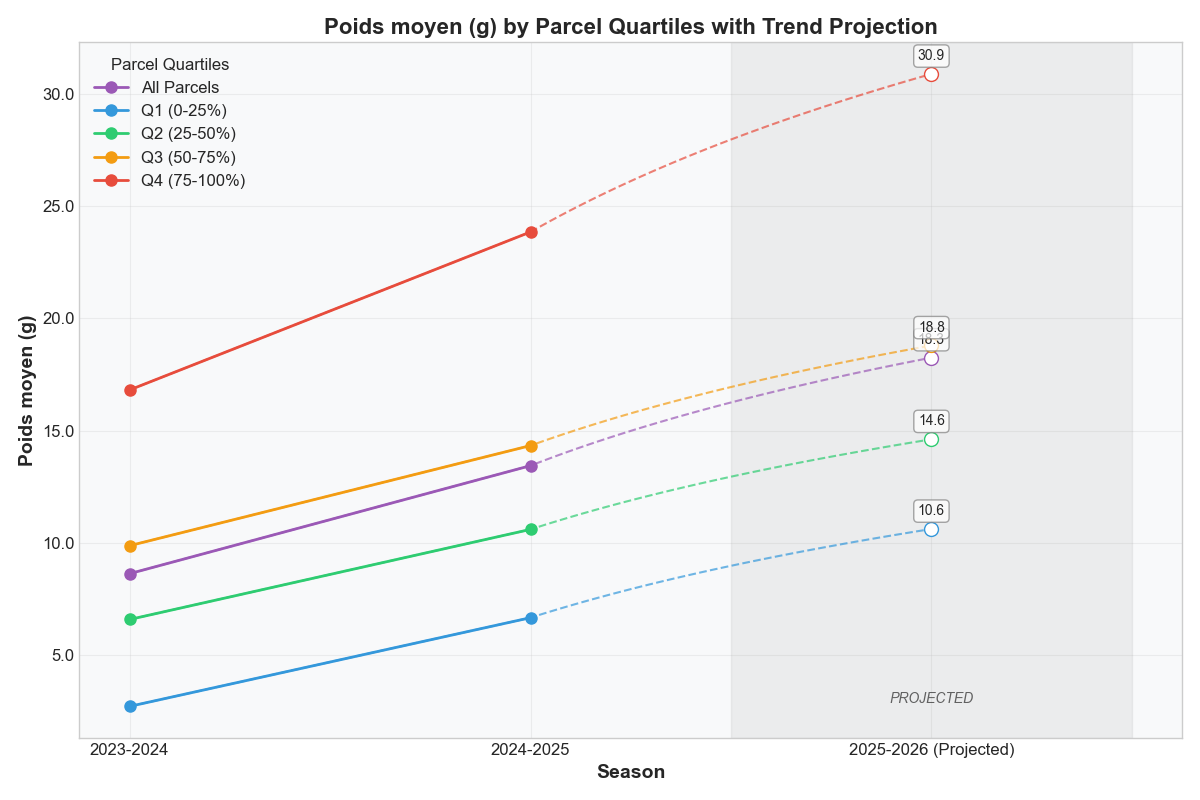
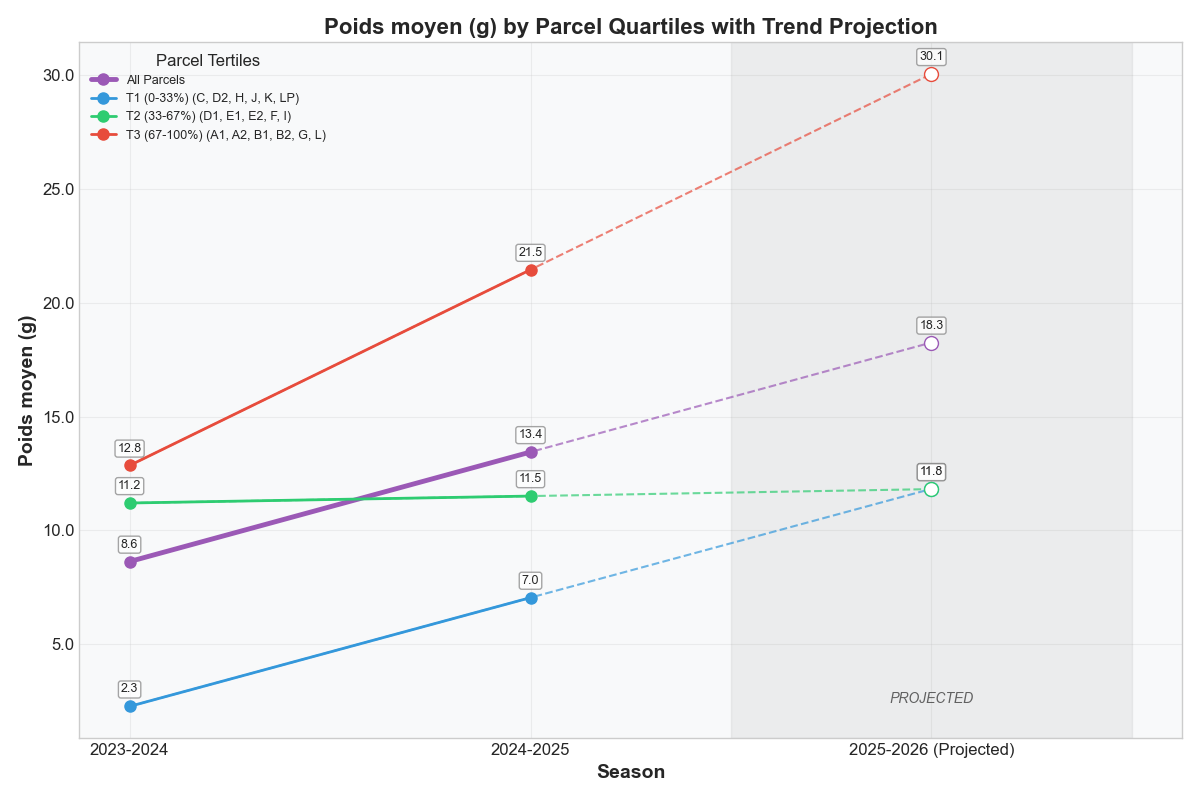
Update quartile analysis to tertile-based grouping with parcel labels

diff --git a/quartile_projection.py b/quartile_projection.py
@@ -20,13 +20,18 @@ plt.rcParams.update({
     'legend.fontsize': 12
 })
 
-# Custom color palette for quartiles
+# Custom color palette for tertiles (3 groups)
 quartile_colors = {
-    'Q1 (0-25%)': '#3498db',    # Blue
-    'Q2 (25-50%)': '#2ecc71',   # Green
-    'Q3 (50-75%)': '#f39c12',   # Orange
-    'Q4 (75-100%)': '#e74c3c',  # Red
+    'T1 (0-33%)': '#3498db',    # Blue
+    'T2 (33-67%)': '#2ecc71',   # Green
+    'T3 (67-100%)': '#e74c3c',  # Red
     'All Parcels': '#9b59b6'     # Purple
+}
+
+# Line styles
+line_styles = {
+    'All Parcels': {'linewidth': 3.5, 'linestyle': '-'},  # Thicker line for average
+    'other': {'linewidth': 2, 'linestyle': '-'}  # Regular line for tertiles
 }
 
 # Function to load and preprocess season data
@@ -74,52 +79,32 @@ kpis = [
 if not os.path.exists('quartile_projections'):
     os.makedirs('quartile_projections')
 
-# Linear function for trendline fitting (simpler for 2 data points)
+# Simple linear function for trendline fitting
 def linear_func(x, a, b):
     return a * x + b
 
-# Function to fit a linear trend and predict next value (more appropriate for 2 data points)
+# Function to fit a simple linear trend and predict next value
 def fit_trend_curve(x_data, y_data, predict_x):
     try:
-        # With only 2 data points, we can do a simple projection
+        # With only 2 data points, use a direct linear projection
         if len(x_data) == 2 and len(y_data) == 2:
-            # Calculate growth rate between the two points
-            growth_rate = (y_data[1] - y_data[0]) / (x_data[1] - x_data[0])
+            # Calculate slope and intercept directly
+            slope = (y_data[1] - y_data[0]) / (x_data[1] - x_data[0]) if x_data[1] != x_data[0] else 0
+            intercept = y_data[0] - slope * x_data[0]
             
-            # Use a modified logarithmic growth to avoid unrealistic projections
-            # for large growth rates - this assumes growth will slow down
-            if growth_rate > 0:
-                # Calculate projected value using diminishing growth
-                base_projection = y_data[1] + growth_rate
-                predicted_y = y_data[1] + growth_rate * (np.log((predict_x - x_data[1]) + 1) / np.log(2))
-            else:
-                # For negative growth, continue the trend linearly
-                predicted_y = y_data[1] + growth_rate
+            # Calculate projected value using simple linear extrapolation
+            predicted_y = slope * predict_x + intercept
             
             # Generate values for trendline plotting
             x_range = np.linspace(min(x_data), predict_x, 100)
-            
-            # Create a smooth transition curve between last known point and projection
-            y_range = []
-            for xi in x_range:
-                if xi <= x_data[1]:
-                    # Linear between known points
-                    ratio = (xi - x_data[0]) / (x_data[1] - x_data[0]) if x_data[1] != x_data[0] else 0
-                    yi = y_data[0] + ratio * (y_data[1] - y_data[0])
-                else:
-                    # Modified logarithmic growth after last known point
-                    if growth_rate > 0:
-                        yi = y_data[1] + growth_rate * (np.log((xi - x_data[1]) + 1) / np.log(2))
-                    else:
-                        yi = y_data[1] + growth_rate * (xi - x_data[1])
-                y_range.append(yi)
+            y_range = slope * x_range + intercept
             
             # Ensure predicted value is non-negative
             predicted_y = max(0, predicted_y)
             
-            return predicted_y, x_range, np.array(y_range), None
+            return predicted_y, x_range, y_range, (slope, intercept)
         else:
-            # Use linear function if we have more data points in the future
+            # Use curve_fit for more than 2 points (future-proofing)
             params, _ = optimize.curve_fit(linear_func, x_data, y_data)
             predicted_y = linear_func(predict_x, *params)
             x_range = np.linspace(min(x_data), predict_x, 100)
@@ -129,18 +114,22 @@ def fit_trend_curve(x_data, y_data, predict_x):
         print(f"Warning: Could not fit trend curve: {e}")
         return None, None, None, None
 
+# Global variable to track parcel tertile assignments
+parcel_tertile_map = {}
+
 # Function to plot KPI by quartiles with trend projection
 def plot_kpi_by_quartiles(kpi):
     print(f"Processing {kpi}...")
+    
+    global parcel_tertile_map
+    # Clear the map for this KPI
+    parcel_tertile_map = {}
     
     # Step 1: Calculate quartiles for each season based on the KPI
     quartile_data = []
     
     # Get all parcels for consistent assignment
     all_parcels = sorted(combined_data['Parcelle'].unique())
-    
-    # Create a tracking dictionary for quartile assignment consistency across seasons
-    parcel_quartile_map = {}
     
     # First, get the quartile assignments from the most recent season
     recent_season = '2024-2025'
@@ -154,31 +143,31 @@ def plot_kpi_by_quartiles(kpi):
             # Filter out NaN values for quartile calculation
             valid_avg = recent_avg[recent_avg[kpi].notna()]
             
-            if len(valid_avg) >= 4:  # Need at least 4 data points for quartiles
-                quartiles = valid_avg[kpi].quantile([0.25, 0.5, 0.75]).values
+            if len(valid_avg) >= 3:  # Need at least 3 data points for tertiles
+                tertiles = valid_avg[kpi].quantile([0.33, 0.67]).values
                 
-                # Assign quartile groups to parcels
+                # Assign tertile groups to parcels
                 recent_avg['Quartile'] = pd.cut(
                     recent_avg[kpi], 
-                    bins=[-float('inf'), quartiles[0], quartiles[1], quartiles[2], float('inf')],
-                    labels=['Q1 (0-25%)', 'Q2 (25-50%)', 'Q3 (50-75%)', 'Q4 (75-100%)']
+                    bins=[-float('inf'), tertiles[0], tertiles[1], float('inf')],
+                    labels=['T1 (0-33%)', 'T2 (33-67%)', 'T3 (67-100%)']
                 )
                 
-                # Store the quartile assignments
+                # Store the tertile assignments
                 for _, row in recent_avg.iterrows():
                     if pd.notna(row['Quartile']):
-                        parcel_quartile_map[row['Parcelle']] = row['Quartile']
+                        parcel_tertile_map[row['Parcelle']] = row['Quartile']
             else:
                 # If fewer than 4 data points, assign evenly
                 values = valid_avg[kpi].values
                 sorted_indices = np.argsort(values)
-                quartile_labels = ['Q1 (0-25%)', 'Q2 (25-50%)', 'Q3 (50-75%)', 'Q4 (75-100%)']
+                tertile_labels = ['T1 (0-33%)', 'T2 (33-67%)', 'T3 (67-100%)']
                 
                 n = len(valid_avg)
                 for i, idx in enumerate(sorted_indices):
-                    quartile_idx = min(3, int(4 * i / n))
+                    tertile_idx = min(2, int(3 * i / n))
                     parcel = valid_avg.iloc[idx]['Parcelle']
-                    parcel_quartile_map[parcel] = quartile_labels[quartile_idx]
+                    parcel_tertile_map[parcel] = tertile_labels[tertile_idx]
     
     # Now process each season with consistent quartile assignments
     for season in ['2023-2024', '2024-2025']:
@@ -191,11 +180,11 @@ def plot_kpi_by_quartiles(kpi):
         if parcel_avg.empty:
             continue
             
-        # Assign quartiles based on the mapping we created
-        parcel_avg['Quartile'] = parcel_avg['Parcelle'].map(parcel_quartile_map)
+        # Assign tertiles based on the mapping we created
+        parcel_avg['Quartile'] = parcel_avg['Parcelle'].map(parcel_tertile_map)
         
-        # For parcels without a quartile assignment (e.g., new parcels), use median
-        parcel_avg['Quartile'].fillna('Q2 (25-50%)', inplace=True)
+        # For parcels without a tertile assignment (e.g., new parcels), use middle tertile
+        parcel_avg['Quartile'].fillna('T2 (33-67%)', inplace=True)
         
         # Add season column
         parcel_avg['Season'] = season
@@ -270,9 +259,35 @@ def plot_kpi_by_quartiles(kpi):
         if len(x) < 2 or np.isnan(y).any():
             continue
         
-        # Plot actual data points
-        plt.plot(x, y, 'o-', label=quartile, color=quartile_colors.get(quartile, 'gray'), 
-                 linewidth=2, markersize=8)
+        # Create label with parcels list
+        parcels_in_quartile = [p for p, q in parcel_tertile_map.items() if q == quartile]
+        parcels_str = ', '.join(sorted(parcels_in_quartile))
+        if quartile == 'All Parcels':
+            label = 'All Parcels'
+        else:
+            # Truncate if too many parcels to display
+            if len(parcels_str) > 30:
+                parcels_display = ', '.join(sorted(parcels_in_quartile)[:3]) + '...'
+            else:
+                parcels_display = parcels_str
+            label = f'{quartile} ({parcels_display})'
+            
+        # Set line style based on whether it's All Parcels or a tertile
+        line_style = line_styles['All Parcels'] if quartile == 'All Parcels' else line_styles['other']
+            
+        # Plot actual data points with different line styles
+        plt.plot(x, y, 'o-', label=label, color=quartile_colors.get(quartile, 'gray'),
+                 linewidth=line_style['linewidth'], linestyle=line_style['linestyle'], markersize=8)
+        
+        # Add annotations to all points
+        for i in range(len(x)):
+            plt.annotate(f'{y[i]:.1f}', 
+                     (x[i], y[i]),
+                     textcoords="offset points",
+                     xytext=(0, 10),
+                     ha='center',
+                     fontsize=9,
+                     bbox=dict(boxstyle="round,pad=0.2", fc="white", ec="gray", alpha=0.7))
         
         # Fit trend curve and project next season
         predicted_y, x_curve, y_curve, params = fit_trend_curve(x, y, 3)  # 3 represents the third season
@@ -285,14 +300,14 @@ def plot_kpi_by_quartiles(kpi):
             plt.plot(3, predicted_y, 'o', color=quartile_colors.get(quartile, 'gray'), 
                      markersize=10, markerfacecolor='white')
             
-            # Add value label to projected point
+            # Add annotation for the projected point
             plt.annotate(f'{predicted_y:.1f}', 
-                      (3, predicted_y),
-                      textcoords="offset points",
-                      xytext=(0, 10),
-                      ha='center',
-                      fontsize=10,
-                      bbox=dict(boxstyle="round,pad=0.3", fc="white", ec="gray", alpha=0.7))
+                     (3, predicted_y),
+                     textcoords="offset points",
+                     xytext=(0, 10),
+                     ha='center',
+                     fontsize=9,
+                     bbox=dict(boxstyle="round,pad=0.2", fc="white", ec="gray", alpha=0.7))
             
             # Store projection for later use
             projections.append({'Quartile': quartile, 'Projected_Value': predicted_y})
@@ -318,8 +333,8 @@ def plot_kpi_by_quartiles(kpi):
     plt.text(3, plt.gca().get_ylim()[0] + (plt.gca().get_ylim()[1] - plt.gca().get_ylim()[0])*0.05, 
              'PROJECTED', ha='center', fontsize=10, fontstyle='italic', alpha=0.7)
     
-    # Add legend
-    plt.legend(title='Parcel Quartiles', loc='best')
+    # Add legend with a smaller font to fit longer parcel lists
+    plt.legend(title='Parcel Tertiles', loc='best', fontsize=9)
     
     plt.tight_layout()
     
@@ -338,13 +353,19 @@ for kpi in kpis:
 
 # Create a summary dataframe of all projections
 def create_projection_summary():
+    global parcel_tertile_map
     summary_rows = []
     
     for kpi, projections in projection_summary.items():
         for p in projections:
+            # Get parcels in this tertile for the summary
+            parcels_in_quartile = [parcel for parcel, q in parcel_tertile_map.items() if q == p['Quartile']]
+            parcels_str = ', '.join(sorted(parcels_in_quartile)) if p['Quartile'] != 'All Parcels' else 'All'
+            
             summary_rows.append({
                 'KPI': kpi,
-                'Quartile': p['Quartile'],
+                'Tertile': p['Quartile'],
+                'Parcels': parcels_str,
                 'Projected_Value_2025_2026': p['Projected_Value']
             })
     
